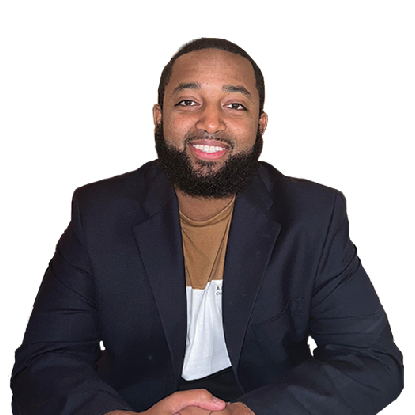
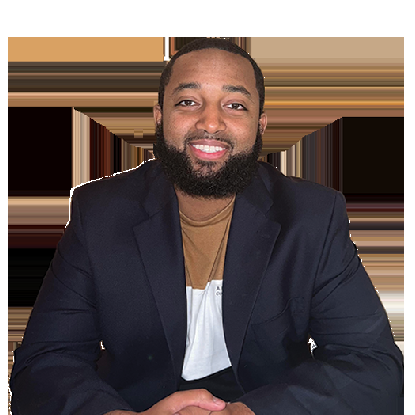
Identity ASCII: remove background, transparent SVG (match guide)
- scripts/prep_avatar.py: rembg-based background removal, subject composited
  onto white, saved as assets/avatar-cutout.png (manual prep, rembg is heavy).
- make_identity_svg.py: render the isolated subject with a transparent
  background (no terminal panel/chrome), autocontrast + gamma tone mapping so
  the dark suit keeps texture, and a deeper purple that reads on light + dark.
- No network fetch here anymore; nightly stays light and deterministic.

diff --git a/scripts/make_identity_svg.py b/scripts/make_identity_svg.py
@@ -1,57 +1,85 @@
+"""Render the background-removed avatar (assets/avatar-cutout.png, produced by
+scripts/prep_avatar.py) as an animated ASCII portrait with a transparent
+background and no terminal panel, so it floats on the GitHub page.
+
+This reads a committed, pre-isolated source image and does no network I/O, so it
+is safe to run in the nightly workflow. To refresh the source after changing the
+GitHub profile picture, run scripts/prep_avatar.py first (needs rembg)."""
 from __future__ import annotations
 
+from html import escape
 from pathlib import Path
+
+from PIL import Image, ImageOps
 
 
 ROOT = Path(__file__).resolve().parents[1]
+SOURCE = ROOT / "assets" / "avatar-cutout.png"
 OUTPUT = ROOT / "identity-ascii.svg"
-WIDTH, HEIGHT = 350, 300
+# 70-level density ramp (dense -> sparse). The removed background is composited to
+# white, which lands on the trailing space, so the backdrop renders as nothing.
+RAMP = "$@B%8&WM#*oahkbdpqwmZO0QLCJUYXzcvunxrjft/\\|()1{}[]?-_+~<>i!lI;:,\"^`'. "
+COLS = 110                # horizontal resolution (detail)
+WIDTH, HEIGHT = 350, 300  # viewBox; 350 + info-card 510 = heatmap 860 (aligned)
+CHAR_RATIO = 0.6          # monospace glyph advance width / font-size
+LINE_RATIO = 0.92         # line height / font-size
+PAD = 8                   # padding inside the viewBox
+FILL = "#8e3fd6"          # deep enough to read on both GitHub light and dark themes
 
 
 def main() -> None:
+    image = Image.open(SOURCE).convert("RGB")
+    width, height = image.size
+    # Derive ROWS from the source aspect so the portrait is not vertically
+    # stretched once the tall-ish character cells are accounted for.
+    rows = max(1, round(COLS * (height / width) * (CHAR_RATIO / LINE_RATIO)))
+
+    small = image.resize((COLS, rows), Image.Resampling.LANCZOS)
+    # Normalize the tonal range and lift shadows (gamma < 1) so a dark suit shows
+    # texture across the ramp instead of crushing to a solid block of dense chars.
+    gray = ImageOps.autocontrast(ImageOps.grayscale(small), cutoff=1)
+    gray = gray.point(lambda value: int(255 * (value / 255) ** 0.55))
+    lines = []
+    for y in range(rows):
+        line = "".join(
+            RAMP[min(len(RAMP) - 1, gray.getpixel((x, y)) * len(RAMP) // 256)]
+            for x in range(COLS)
+        )
+        lines.append(line.rstrip())
+
+    box_w = WIDTH - 2 * PAD
+    box_h = HEIGHT - 2 * PAD
+    font_size = min(box_w / (COLS * CHAR_RATIO), box_h / (rows * LINE_RATIO))
+    line_height = font_size * LINE_RATIO
+    grid_w = COLS * CHAR_RATIO * font_size
+    grid_h = rows * line_height
+    start_x = (WIDTH - grid_w) / 2
+    start_y = (HEIGHT - grid_h) / 2 + font_size
+
+    clips, text_rows = [], []
+    for index, line in enumerate(lines):
+        y = start_y + index * line_height
+        begin = 0.2 + index * 0.02
+        clips.append(
+            f'<clipPath id="line-{index}">'
+            f'<rect x="{start_x:.2f}" y="{y - font_size:.2f}" height="{font_size + 2:.2f}" width="0">'
+            f'<animate attributeName="width" from="0" to="{grid_w:.2f}" dur="0.45s" begin="{begin:.3f}s" fill="freeze" />'
+            f'</rect></clipPath>'
+        )
+        text_rows.append(
+            f'<text x="{start_x:.2f}" y="{y:.2f}" clip-path="url(#line-{index})">{escape(line)}</text>'
+        )
+
     svg = f'''<svg xmlns="http://www.w3.org/2000/svg" width="{WIDTH}" height="{HEIGHT}" viewBox="0 0 {WIDTH} {HEIGHT}" role="img" aria-labelledby="title desc">
-<title id="title">Animated YFA identity mark</title>
-<desc id="desc">A crisp geometric YFA mark assembles inside a terminal window.</desc>
-<defs>
-  <linearGradient id="violet" x1="0" y1="0" x2="1" y2="1">
-    <stop offset="0" stop-color="#d39be8"/>
-    <stop offset="1" stop-color="#a85cc7"/>
-  </linearGradient>
-  <filter id="glow" x="-30%" y="-30%" width="160%" height="160%">
-    <feGaussianBlur stdDeviation="5" result="blur"/>
-    <feMerge><feMergeNode in="blur"/><feMergeNode in="SourceGraphic"/></feMerge>
-  </filter>
-  <pattern id="grid" width="18" height="18" patternUnits="userSpaceOnUse">
-    <circle cx="1" cy="1" r="1" fill="#6d4c7d" opacity=".2"/>
-  </pattern>
-</defs>
-<style>
-  text {{ font-family: ui-monospace, SFMono-Regular, Menlo, Consolas, monospace; }}
-  .piece {{ opacity:0; transform-box:fill-box; transform-origin:center; animation:assemble .52s cubic-bezier(.2,.9,.2,1.15) forwards; }}
-  .top {{ animation-delay:.2s }} .stem {{ animation-delay:.42s }} .cross {{ animation-delay:.64s }}
-  .left {{ animation-delay:.82s }} .center {{ animation-delay:.94s }} .right {{ animation-delay:1.06s }}
-  .scan {{ animation:scan 2.8s ease-in-out 1.2s infinite; }}
-  @keyframes assemble {{ from {{ opacity:0; transform:scale(.68) translateY(7px); }} to {{ opacity:1; transform:scale(1) translateY(0); }} }}
-  @keyframes scan {{ 0%,100% {{ opacity:0; transform:translateY(0); }} 15% {{ opacity:.48; }} 70% {{ opacity:.18; }} 90% {{ opacity:0; transform:translateY(202px); }} }}
-  @media (prefers-reduced-motion:reduce) {{ .piece {{ opacity:1; animation:none; }} .scan {{ display:none; }} }}
-</style>
-<rect width="348" height="298" x="1" y="1" rx="16" fill="#100b16" stroke="#3d2a49"/>
-<rect x="12" y="38" width="326" height="248" rx="11" fill="url(#grid)"/>
-<circle cx="20" cy="20" r="4.5" fill="#ff6b81"/><circle cx="36" cy="20" r="4.5" fill="#f6c85f"/><circle cx="52" cy="20" r="4.5" fill="#65d6a6"/>
-<text x="67" y="24" font-size="10" fill="#a993b8">identity.svg</text>
-<g filter="url(#glow)">
-  <rect class="piece top" x="81" y="54" width="188" height="38" rx="3" fill="url(#violet)"/>
-  <rect class="piece stem" x="145" y="119" width="60" height="66" rx="3" fill="url(#violet)"/>
-  <rect class="piece cross" x="81" y="184" width="188" height="48" rx="3" fill="url(#violet)"/>
-  <rect class="piece left" x="29" y="231" width="52" height="49" rx="3" fill="url(#violet)"/>
-  <rect class="piece center" x="145" y="231" width="60" height="49" rx="3" fill="url(#violet)"/>
-  <rect class="piece right" x="269" y="231" width="52" height="49" rx="3" fill="url(#violet)"/>
-</g>
-<rect class="scan" x="29" y="51" width="292" height="2" rx="1" fill="#f4dfff" opacity="0"/>
+<title id="title">yfainvestments-hub rendered as animated ASCII art</title>
+<desc id="desc">A portrait types itself in row by row over a transparent background.</desc>
+<defs>{''.join(clips)}</defs>
+<style>text {{ font-family: ui-monospace, SFMono-Regular, Menlo, Consolas, monospace; font-size: {font_size:.2f}px; font-weight: 700; fill: {FILL}; white-space: pre; }}</style>
+{''.join(text_rows)}
 </svg>
 '''
     OUTPUT.write_text(svg, encoding="utf-8")
-    print(f"Wrote {OUTPUT}")
+    print(f"Wrote {OUTPUT} ({COLS}x{rows} chars, font {font_size:.2f}px)")
 
 
 if __name__ == "__main__":

diff --git a/scripts/prep_avatar.py b/scripts/prep_avatar.py
@@ -1,0 +1,76 @@
+"""Prepare the identity source image: fetch the live GitHub avatar, remove its
+background with rembg, trim to the subject, and composite onto white so the
+backdrop maps to the blank (space) end of the ASCII ramp.
+
+This is a MANUAL prep step (rembg pulls a ~180MB model), not part of the nightly
+workflow. Re-run it whenever the GitHub profile picture changes:
+
+    python scripts/prep_avatar.py
+
+It writes:
+    assets/avatar.png          - raw avatar (reference)
+    assets/avatar-cutout.png   - background-removed subject on white (ASCII source)
+"""
+from __future__ import annotations
+
+import io
+import os
+from pathlib import Path
+
+import requests
+from PIL import Image
+from rembg import remove
+
+
+USERNAME = "yfainvestments-hub"
+ROOT = Path(__file__).resolve().parents[1]
+RAW = ROOT / "assets" / "avatar.png"
+CUTOUT = ROOT / "assets" / "avatar-cutout.png"
+PAD = 0.06  # fraction of subject size added as breathing room around the crop
+
+
+def fetch_avatar() -> Image.Image:
+    headers = {"User-Agent": f"{USERNAME}-profile/1.0"}
+    token = os.environ.get("GITHUB_TOKEN")
+    if token:
+        headers["Authorization"] = f"Bearer {token}"
+    api = requests.get(
+        f"https://api.github.com/users/{USERNAME}",
+        headers={**headers, "Accept": "application/vnd.github+json"},
+        timeout=30,
+    )
+    api.raise_for_status()
+    avatar_url = api.json()["avatar_url"]
+    sep = "&" if "?" in avatar_url else "?"
+    resp = requests.get(f"{avatar_url}{sep}s=512", headers=headers, timeout=30)
+    resp.raise_for_status()
+    return Image.open(io.BytesIO(resp.content)).convert("RGBA")
+
+
+def main() -> None:
+    raw = fetch_avatar()
+    RAW.parent.mkdir(parents=True, exist_ok=True)
+    raw.convert("RGB").save(RAW)
+
+    cut = remove(raw)  # RGBA with the background alpha-keyed out
+    bbox = cut.getbbox()
+    if bbox:
+        left, upper, right, lower = bbox
+        pad_x = int((right - left) * PAD)
+        pad_y = int((lower - upper) * PAD)
+        bbox = (
+            max(0, left - pad_x),
+            max(0, upper - pad_y),
+            min(cut.width, right + pad_x),
+            min(cut.height, lower + pad_y),
+        )
+        cut = cut.crop(bbox)
+
+    white = Image.new("RGBA", cut.size, (255, 255, 255, 255))
+    composited = Image.alpha_composite(white, cut).convert("RGB")
+    composited.save(CUTOUT)
+    print(f"Wrote {RAW} and {CUTOUT} ({composited.size[0]}x{composited.size[1]})")
+
+
+if __name__ == "__main__":
+    main()
